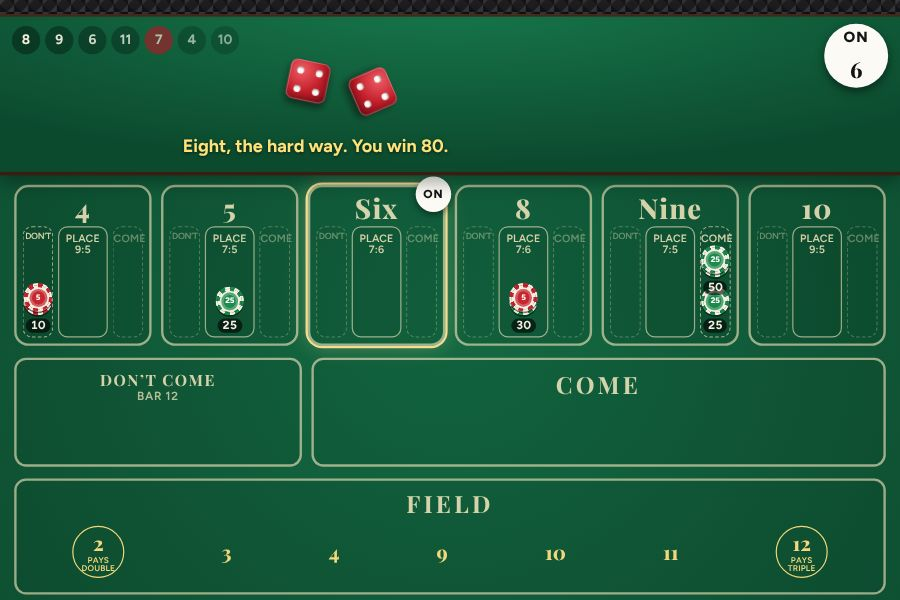
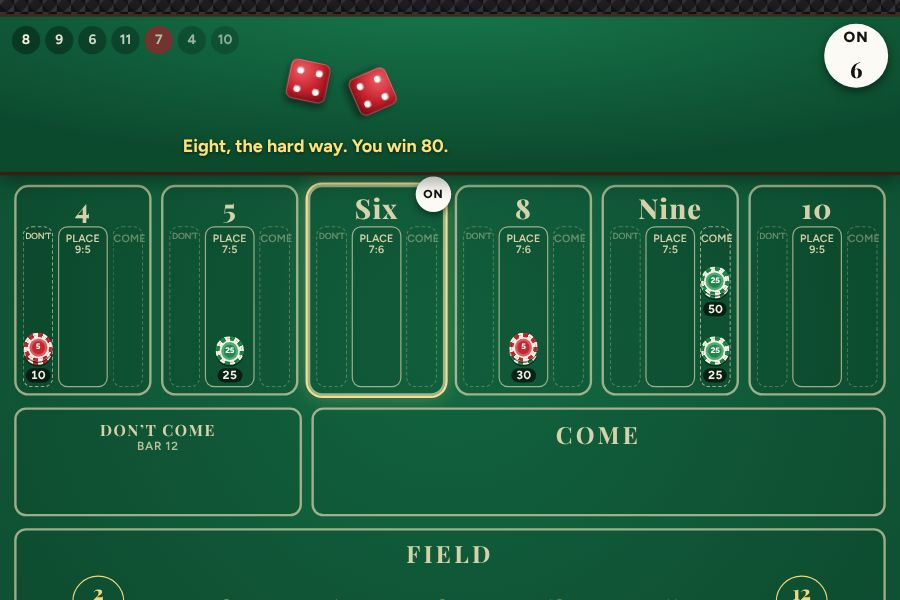
Craps' Off pill stays clear of the chips, and on a come bet only the odds are off
On the come-out the OFF pill sat where a number's amount goes, so a 6-chip place bet read as a lone 1 chip with no total, and on a come bet with odds it covered the come bet's own 10 and marked the whole bet off, though the come bet works on the come-out (it wins on its number and loses on a 7; only its odds are off). Lay odds on a don't come also sat on top of the bet's amount. Now a place bet's or hardway's Off pill sits at the top of its slot under the print, and every amount shows. On a come bet only the odds are marked: their chips dimmed and their amount reading "50 OFF", and the bet's name for a screen reader says "50 odds, off on the come-out". A come or don't come bet with odds stands taller, with the odds stacked above the bet and room for both amounts. The test lays place bets, come bets with odds and a don't come with lay odds on the come-out at 390 and 360 wide and checks that nothing in a slot overlaps and what's marked off. The floor's craps picture and the README's phone picture are made again.

Claude-Session: https://claude.ai/code/session_01PQbLNUqCq985TAYanzzHkW

Changed region(s): [[0.0, 0.39, 0.9956, 1.0]]

diff --git a/craps/js/app.js b/craps/js/app.js
@@ -138,15 +138,25 @@ function paint() {
     const m = /^(come|dcome)(\d+)$/.exec(k);
     const amt = b[k] || 0;
     if (amt) el.appendChild(stackEl(amt, { most: 5 }));
+    // off on the come-out: place bets and hardways, and the odds on a come bet (the come bet itself works: it wins on
+    // its number and loses on a 7), so only the odds are marked off there
+    const oddsOff = !s.point && !!m && m[1] === 'come';
     let odds = 0;
-    if (m) { odds = b[betFor(el)] || 0; if (odds) { const o = stackEl(odds, { most: 4 }); o.classList.add('odds'); el.appendChild(o); } }
+    if (m) {
+      odds = b[betFor(el)] || 0;
+      if (odds) {
+        const o = stackEl(odds, { most: 4 });
+        o.classList.add('odds');
+        if (oddsOff) { o.classList.add('off'); o.querySelector('.amt').insertAdjacentHTML('beforeend', ' <b>off</b>'); }
+        el.appendChild(o);
+      }
+    }
     const bet = betFor(el);
     const open = g.can(s, bet, table.limits().max).ok;
     el.classList.toggle('closed', !amt && !odds && !open);
-    // off on the come-out: place bets, hardways, and odds on a come bet
-    const off = !s.point && ((/^(place|hard)\d+$/.test(k) && amt) || (m && m[1] === 'come' && odds));
+    const off = !s.point && /^(place|hard)\d+$/.test(k) && amt;
     el.classList.toggle('is-off', !!off);
-    el.setAttribute('aria-label', label(el, amt, odds));
+    el.setAttribute('aria-label', label(el, amt, odds, { off: !!off, oddsOff: oddsOff && !!odds }));
   }
   // the puck and the point
   const puck = $('puck');
@@ -178,11 +188,11 @@ function paint() {
   table.check();
 }
 
-function label(el, amt, odds) {
+function label(el, amt, odds, { off = false, oddsOff = false } = {}) {
   const k = el.dataset.spot;
   const parts = [g.NAMES[k]];
-  if (amt) parts.push(`${cage.fmt(amt)} on it`);
-  if (odds) parts.push(`${cage.fmt(odds)} odds`);
+  if (amt) parts.push(`${cage.fmt(amt)} on it${off ? ', off on the come-out' : ''}`);
+  if (odds) parts.push(`${cage.fmt(odds)} odds${oddsOff ? ', off on the come-out' : ''}`);
   return parts.join(', ');
 }
 

diff --git a/craps/css/craps.css b/craps/css/craps.css
@@ -82,10 +82,14 @@
   background: #121214; color: #f2f2f2; padding: 3px 5px; border-radius: 99px; pointer-events: none;
 }
 .area .stack, .slot .stack, .prop .stack { position: absolute; left: 50%; bottom: 16px; margin-left: calc(var(--chip-s) / -2); z-index: 1; }
-.slot .stack.odds { bottom: 50px; }
-.slot.is-off::after { top: auto; bottom: 2px; right: 50%; transform: translateX(50%); }
-.slot.is-off .stack { bottom: 22px; }
-.slot.is-off .stack.odds { bottom: 54px; }
+/* a number's slot: the Off pill sits at the top, under the print, clear of the stack and its amount; a come or don't
+   come bet with odds stands taller, its odds stacked above the bet with room for both amounts */
+.slot.is-off::after { top: 27px; right: 50%; transform: translateX(50%); }
+.slot .stack.odds { bottom: 74px; }
+.slot:has(> .stack.odds) { min-height: 136px; }
+.slot .stack.odds.off .chip { opacity: .5; }
+.slot .stack.odds.off .amt { background: #121214; color: #f2f2f2; }
+.slot .stack.odds.off .amt b { font: 800 .58rem/1 var(--sans); letter-spacing: .08em; text-transform: uppercase; }
 .lost { animation: lost .7s ease-out; }
 @keyframes lost { 30% { background: rgba(196, 35, 44, .55); } }
 .won { animation: won .9s ease-out; }

diff --git a/sw.js b/sw.js
@@ -8,7 +8,7 @@
 // fingerprint of every file in SHELL: change any of them and test/e2e.mjs fails until FILES is changed to match (it
 // says what to), which changes this file, so every copy is made whole again at once.
 const CACHE = 'house-money-v6'; // bump the number when the file list changes
-const FILES = '56f07f38'; // test/e2e.mjs checks this
+const FILES = 'da909529'; // test/e2e.mjs checks this
 const SHELL = [
   './', 'baccarat/', 'blackjack/', 'cherry-bell/', 'craps/', 'motherlode/', 'odds-and-ends/', 'records/',
   'roulette/', 'video-poker/', '404.html', 'baccarat/css/baccarat.css', 'baccarat/index.html', 'baccarat/js/app.js',
